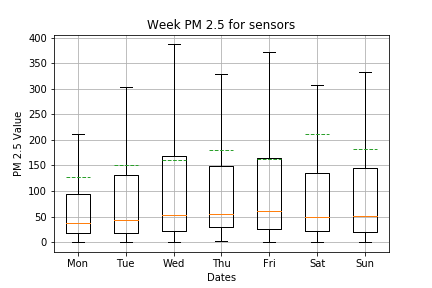
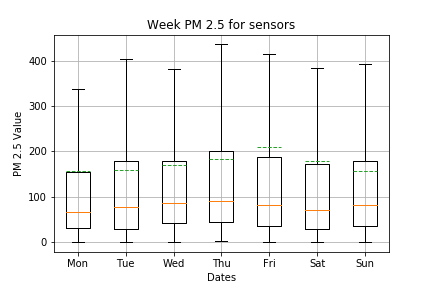
fixed the between time to add +8 that seemed to work right

diff --git a/jupyter/main.py b/jupyter/main.py
@@ -79,7 +79,13 @@ LOGGER.info("Done loading data...")
 data = data[data.voltage > 0]
 data = data[data.location_name == 'Mongolia']
 
-monday = data[(data.index.day_name() == 'Monday')].between_time('0:15', '0:45')['pm2_5']
+print(data.index[1])
+# data = data.tz_convert(None)
+# data.index = data.index.tz_localize('GMT')
+data.index = data.index.tz_convert('Asia/Ulaanbaatar')
+print(data.index[1])
+
+monday = data[(data.index.day_name() == 'Monday')].between_time('15:00:00', '01:00:00')
 tuesday = data[data.index.day_name() == 'Tuesday']['pm2_5']
 wednesday = data[data.index.day_name() == 'Wednesday']['pm2_5']
 thursday = data[data.index.day_name() == 'Thursday']['pm2_5']
